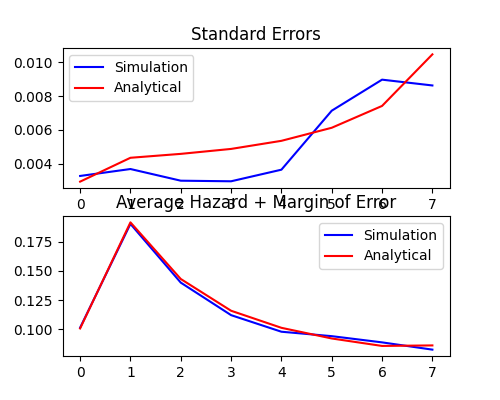
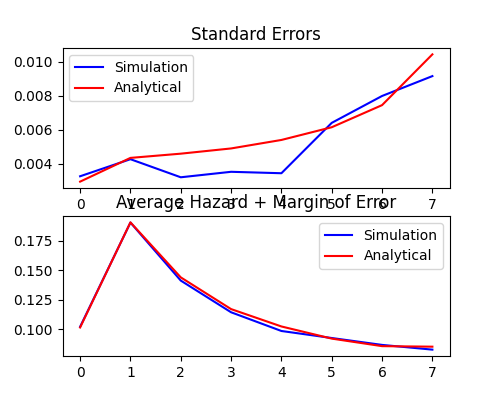
exits from remote

diff --git a/code/s2_multi_iters.py b/code/s2_multi_iters.py
@@ -35,7 +35,7 @@ if __name__ == '__main__':
     T = 8
     J = 2  
     n = 10000
-    iters = 500 
+    iters = 1000 
     
     # Find hazard rates and standard errors
     h_list, se_list = HazardSimMP(n, T, J, iters)
